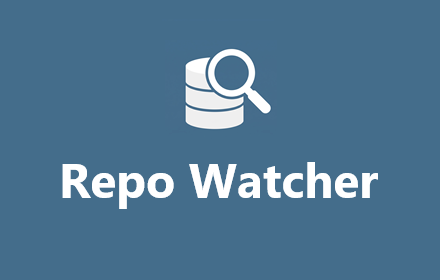
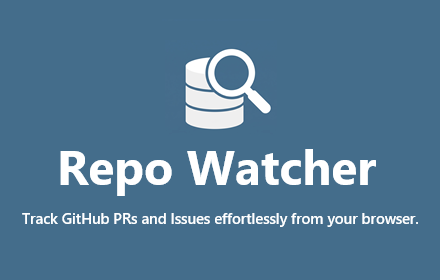
feat: add marquee and thumbnail images for enhanced visual appeal and update README for clarity

Changed region(s): [[0.0591, 0.5143, 0.9455, 0.8286]]

diff --git a/README.md b/README.md
@@ -1,5 +1,7 @@
 # Repo Watcher
 
+`Track GitHub PRs and Issues effortlessly from your browser.`
+
 Repo Watcher は、GitHub 上の Issue / Pull Request の更新を監視する Chrome 拡張です。
 
 このリポジトリは Chrome 拡張そのもののソースコードであり、単体の CLI やデスクトップアプリとして利用するものではありません。利用するには Chrome 系ブラウザに拡張として読み込み、GitHub Personal Access Token と監視対象リポジトリを設定する必要があります。
